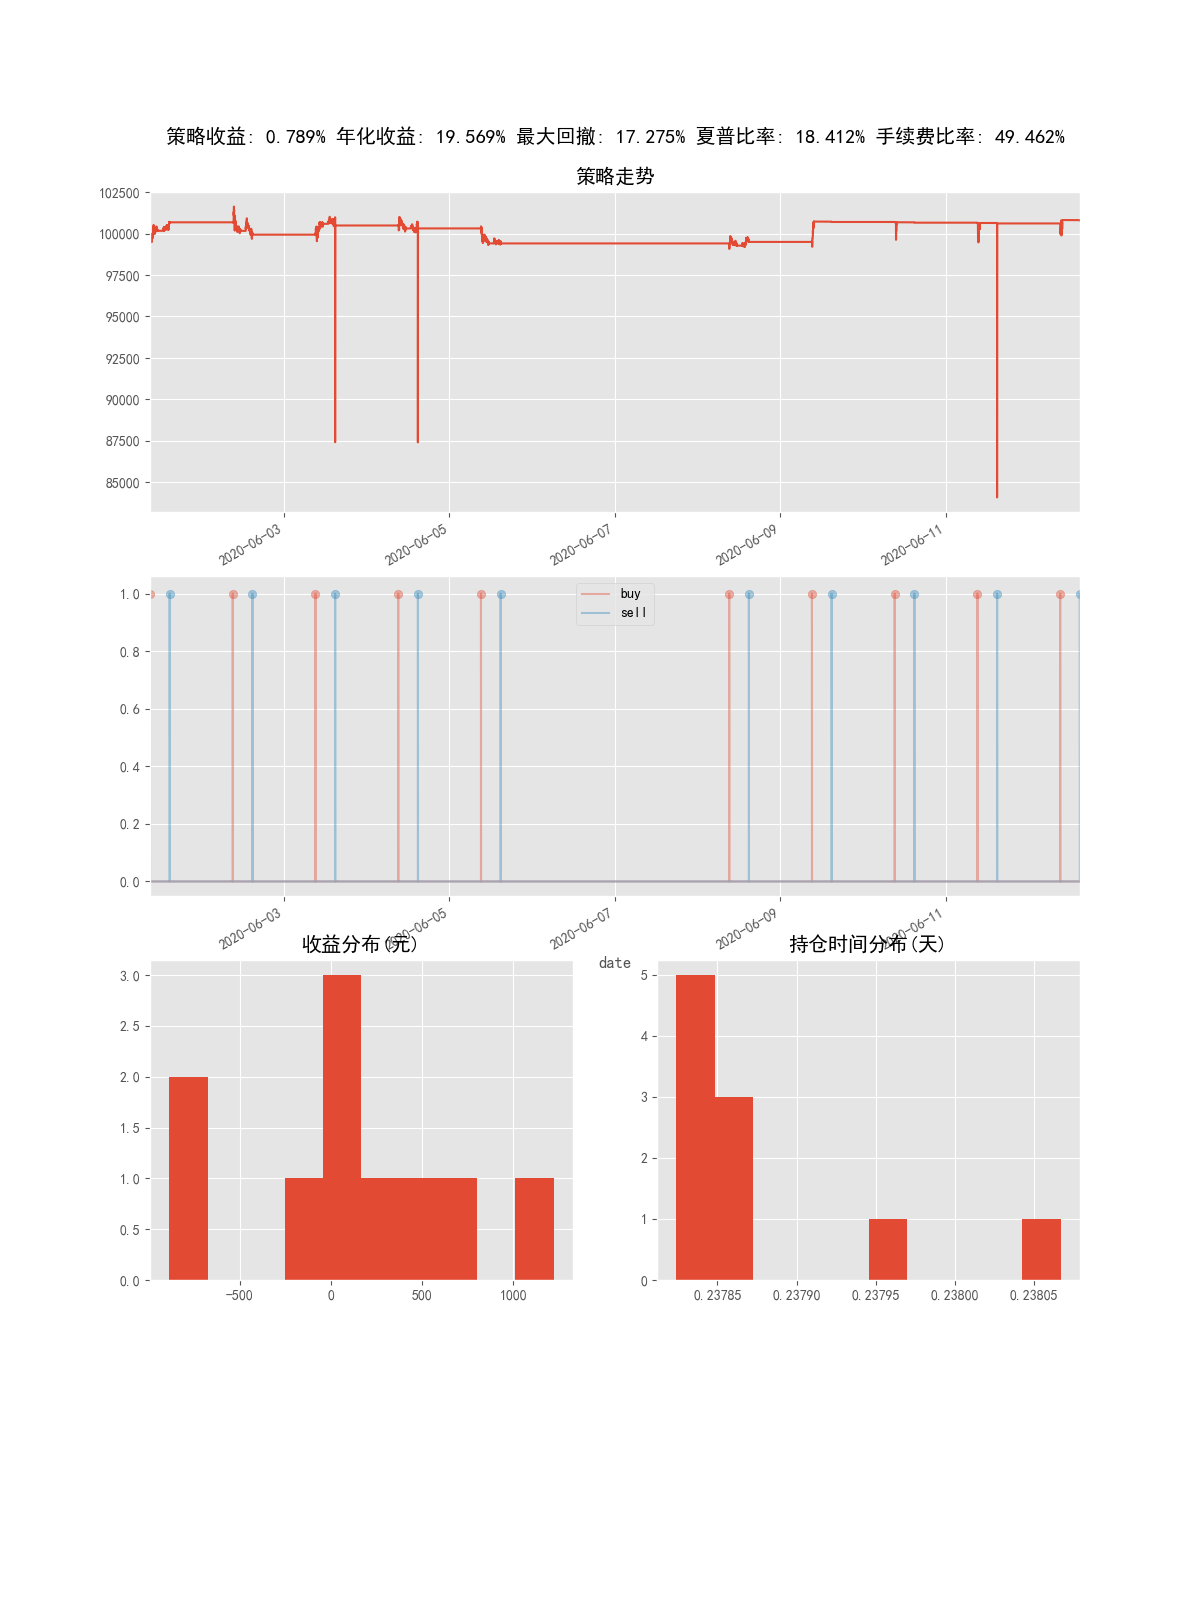
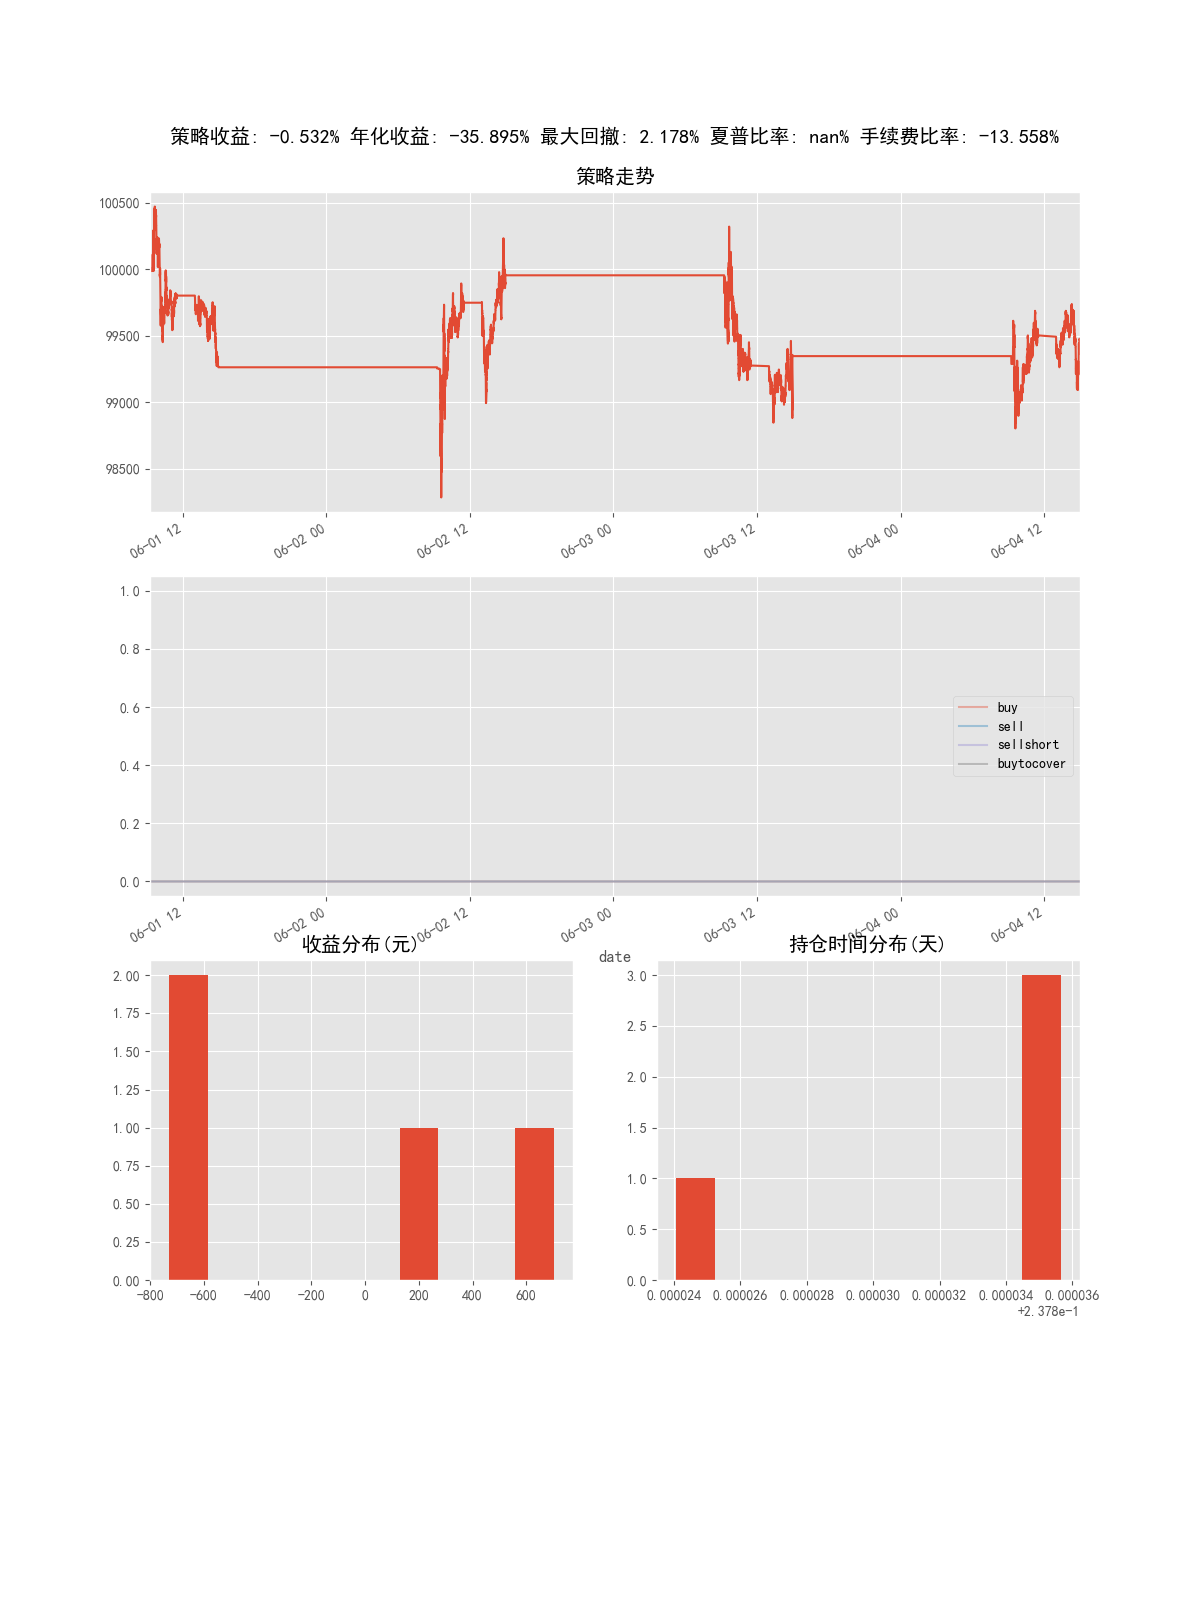
fliter the sellshort type in plotter.py

diff --git a/reporter/plotter.py b/reporter/plotter.py
@@ -49,7 +49,7 @@ class Plotter(object):
 
             for deal in order["deal_lst"]:
                 commission += deal["commission"]
-                if order["type"] == "buy":
+                if order["type"] == "buy" or order["type"] == "sellshort":
                     break
                 profit_lst.append(deal["profit"])
                 close_date = deal["close_date"]
